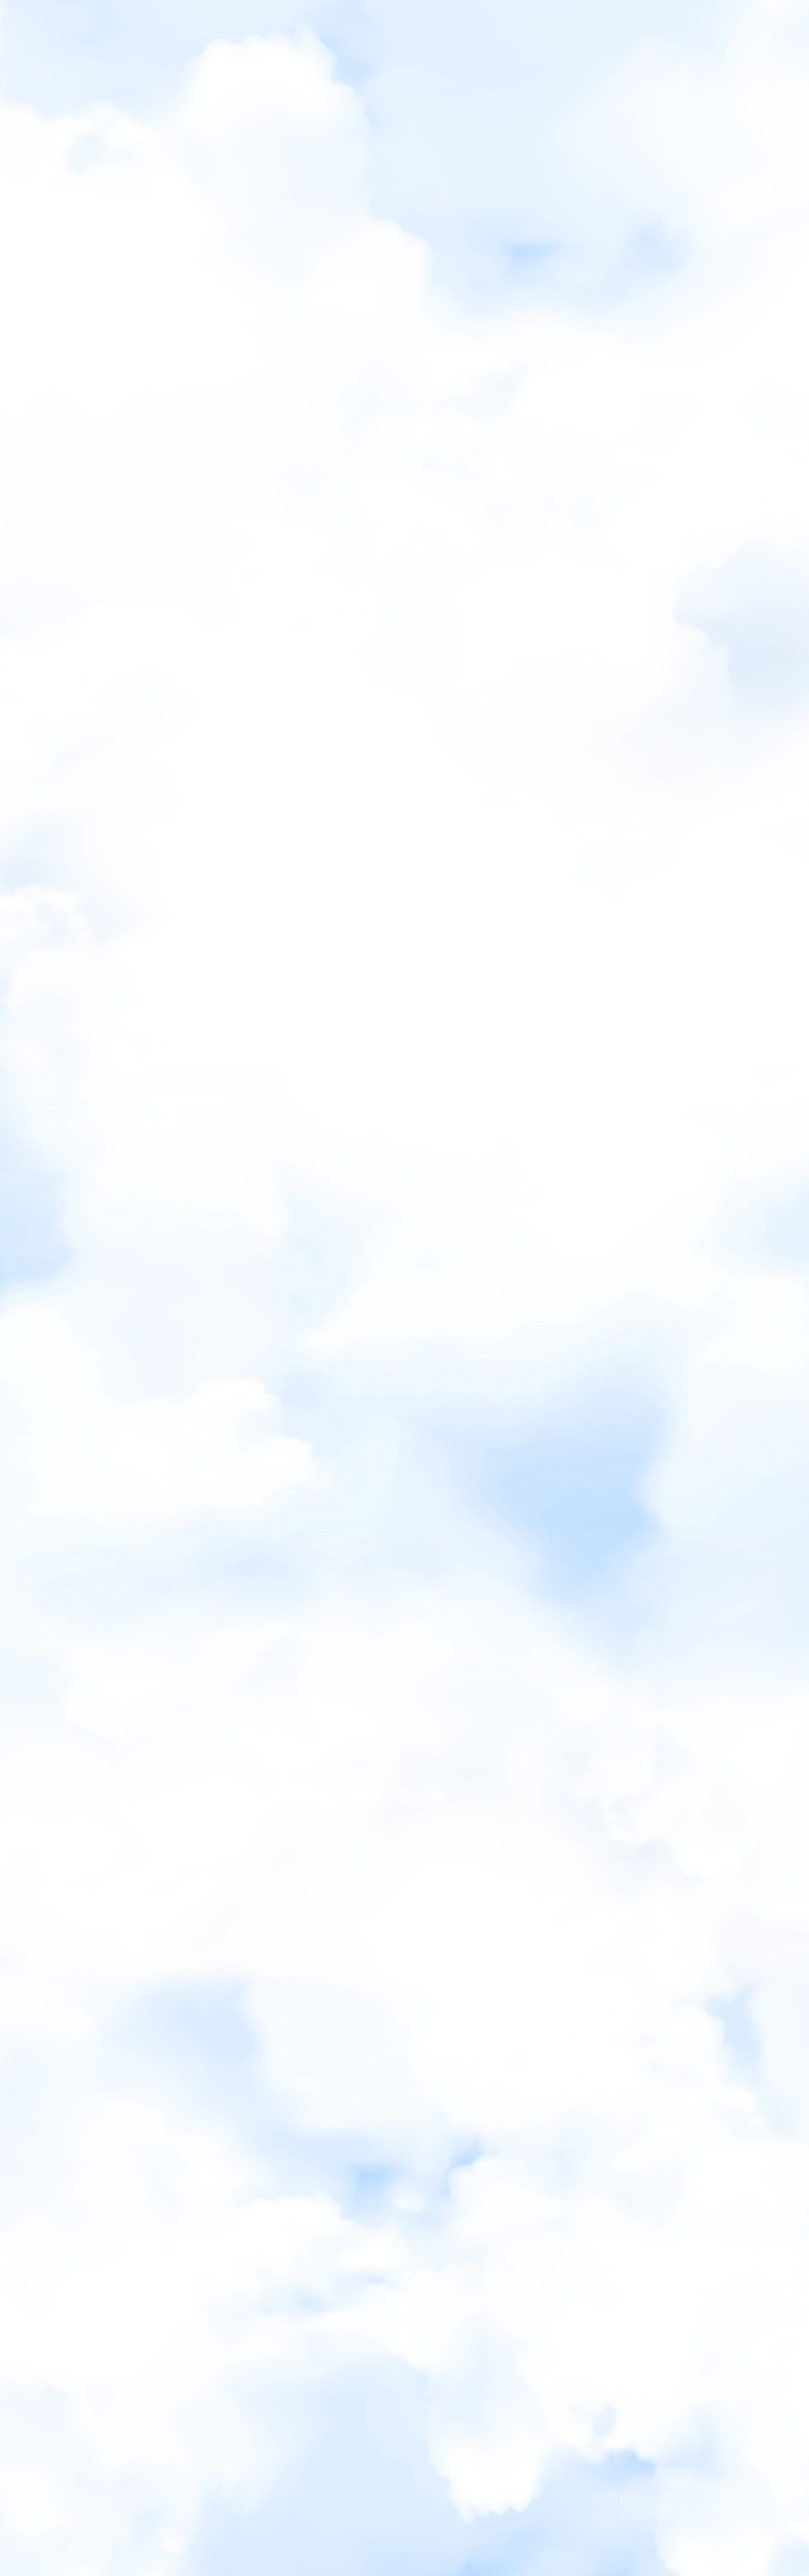
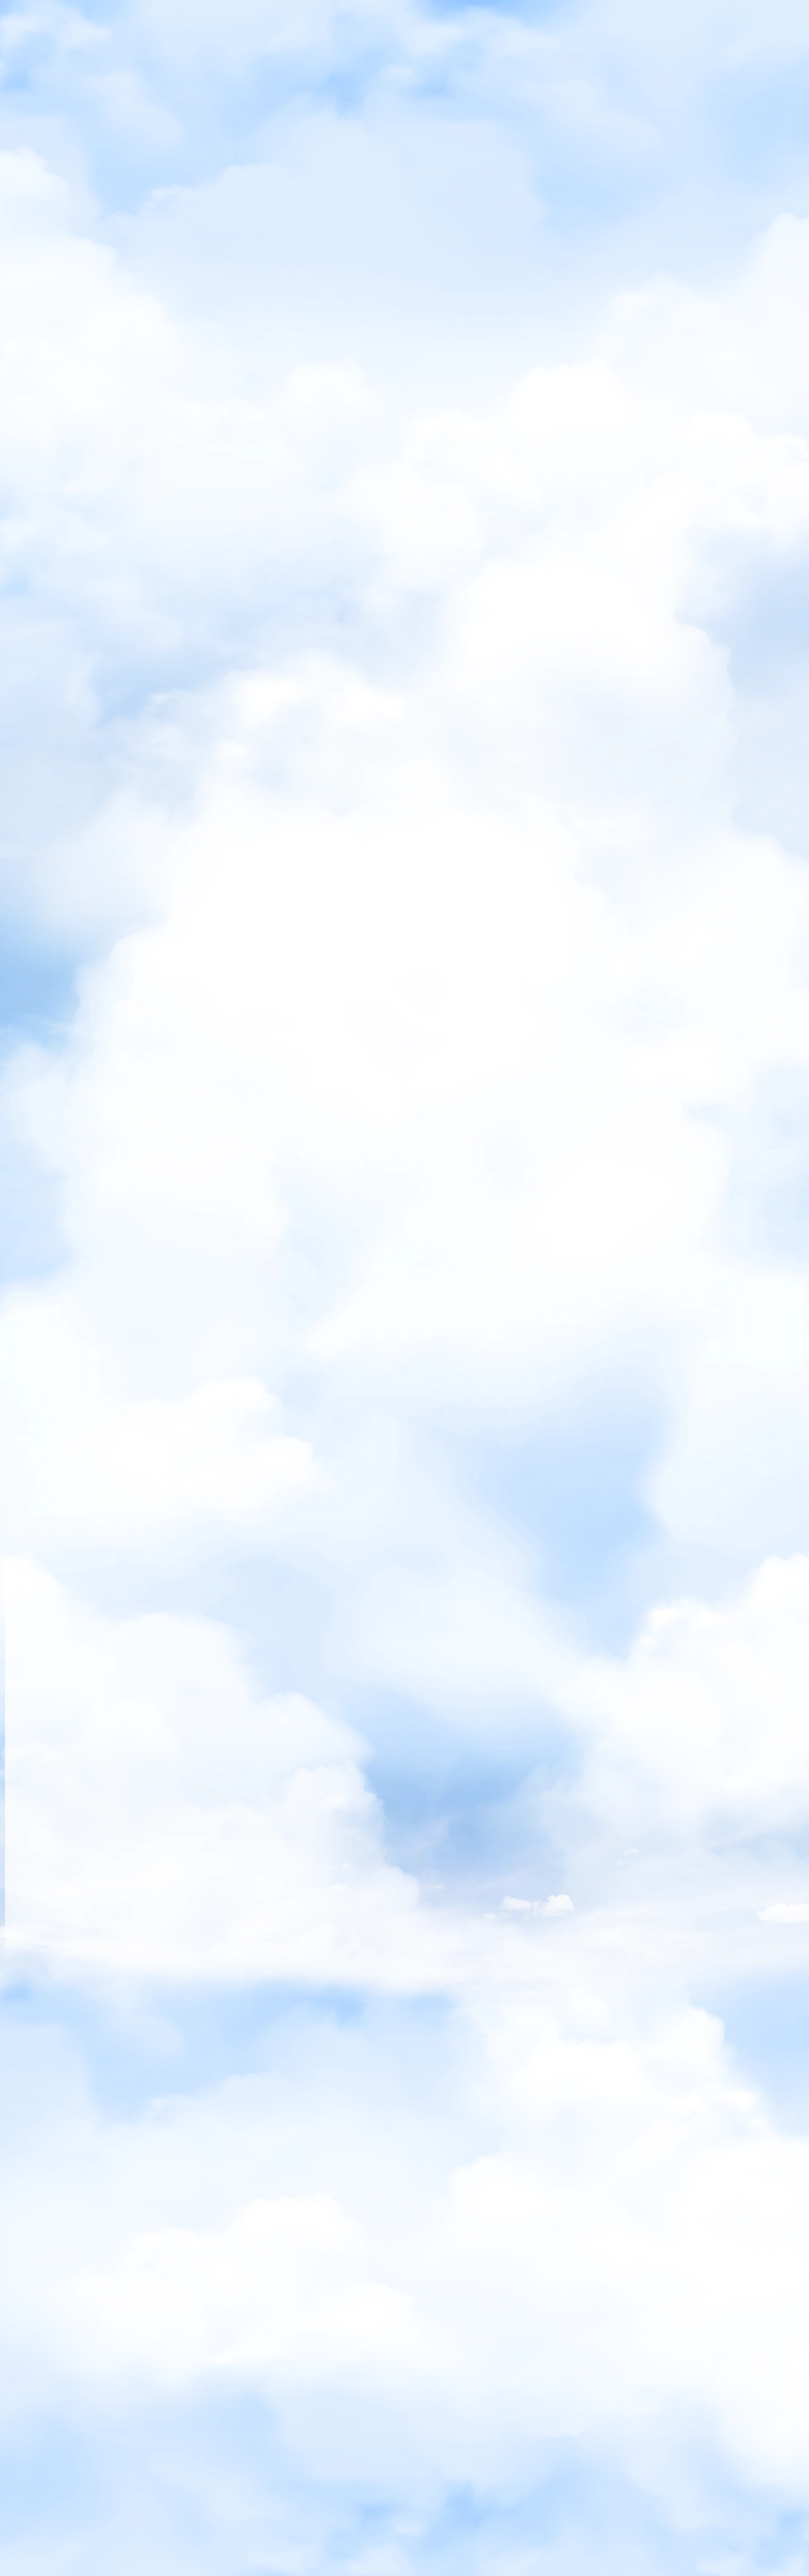
mobile

diff --git a/assets/styles/media.css b/assets/styles/media.css
@@ -67,7 +67,9 @@
   .ss2-info-graph-1 .context {padding-top: 0;}
   .ss2-info-graph-1 .inner-graph-wild{width: 160vw!important;margin-left: -50vw;}
   .ss2-zoom{position: absolute;right: 60px;    top: 0;width: 25vw;z-index: 9;}
-  .ss2-scroll-hints.active{opacity: 0;}
+  .ss2-scroll-hints{opacity: 0 !important;width: calc(100% - 30px);}
+
+  .ss2-info-graph-1 .ss2-zoom{right: 40px;}
   
   .ss2-info-ball{width: 28px;height: 28px;}
 
@@ -134,6 +136,7 @@
   .ss4-info-txt-1{left: calc(50% - 100vw + 15px);width: 50vw;bottom: -940px;}
   .ss4-info-txt-2{left: calc(50% + 50px);;width: calc(50vw - 15px);bottom: -1120px;}
 
+  .ss5-img3 .ss2-zoom{right: 15px}
 
   #section-4 .inner-qoute-2{top:-120px;margin-top:0;}
   #section-4 .inner-qoute-2 h6{bottom:50px}
